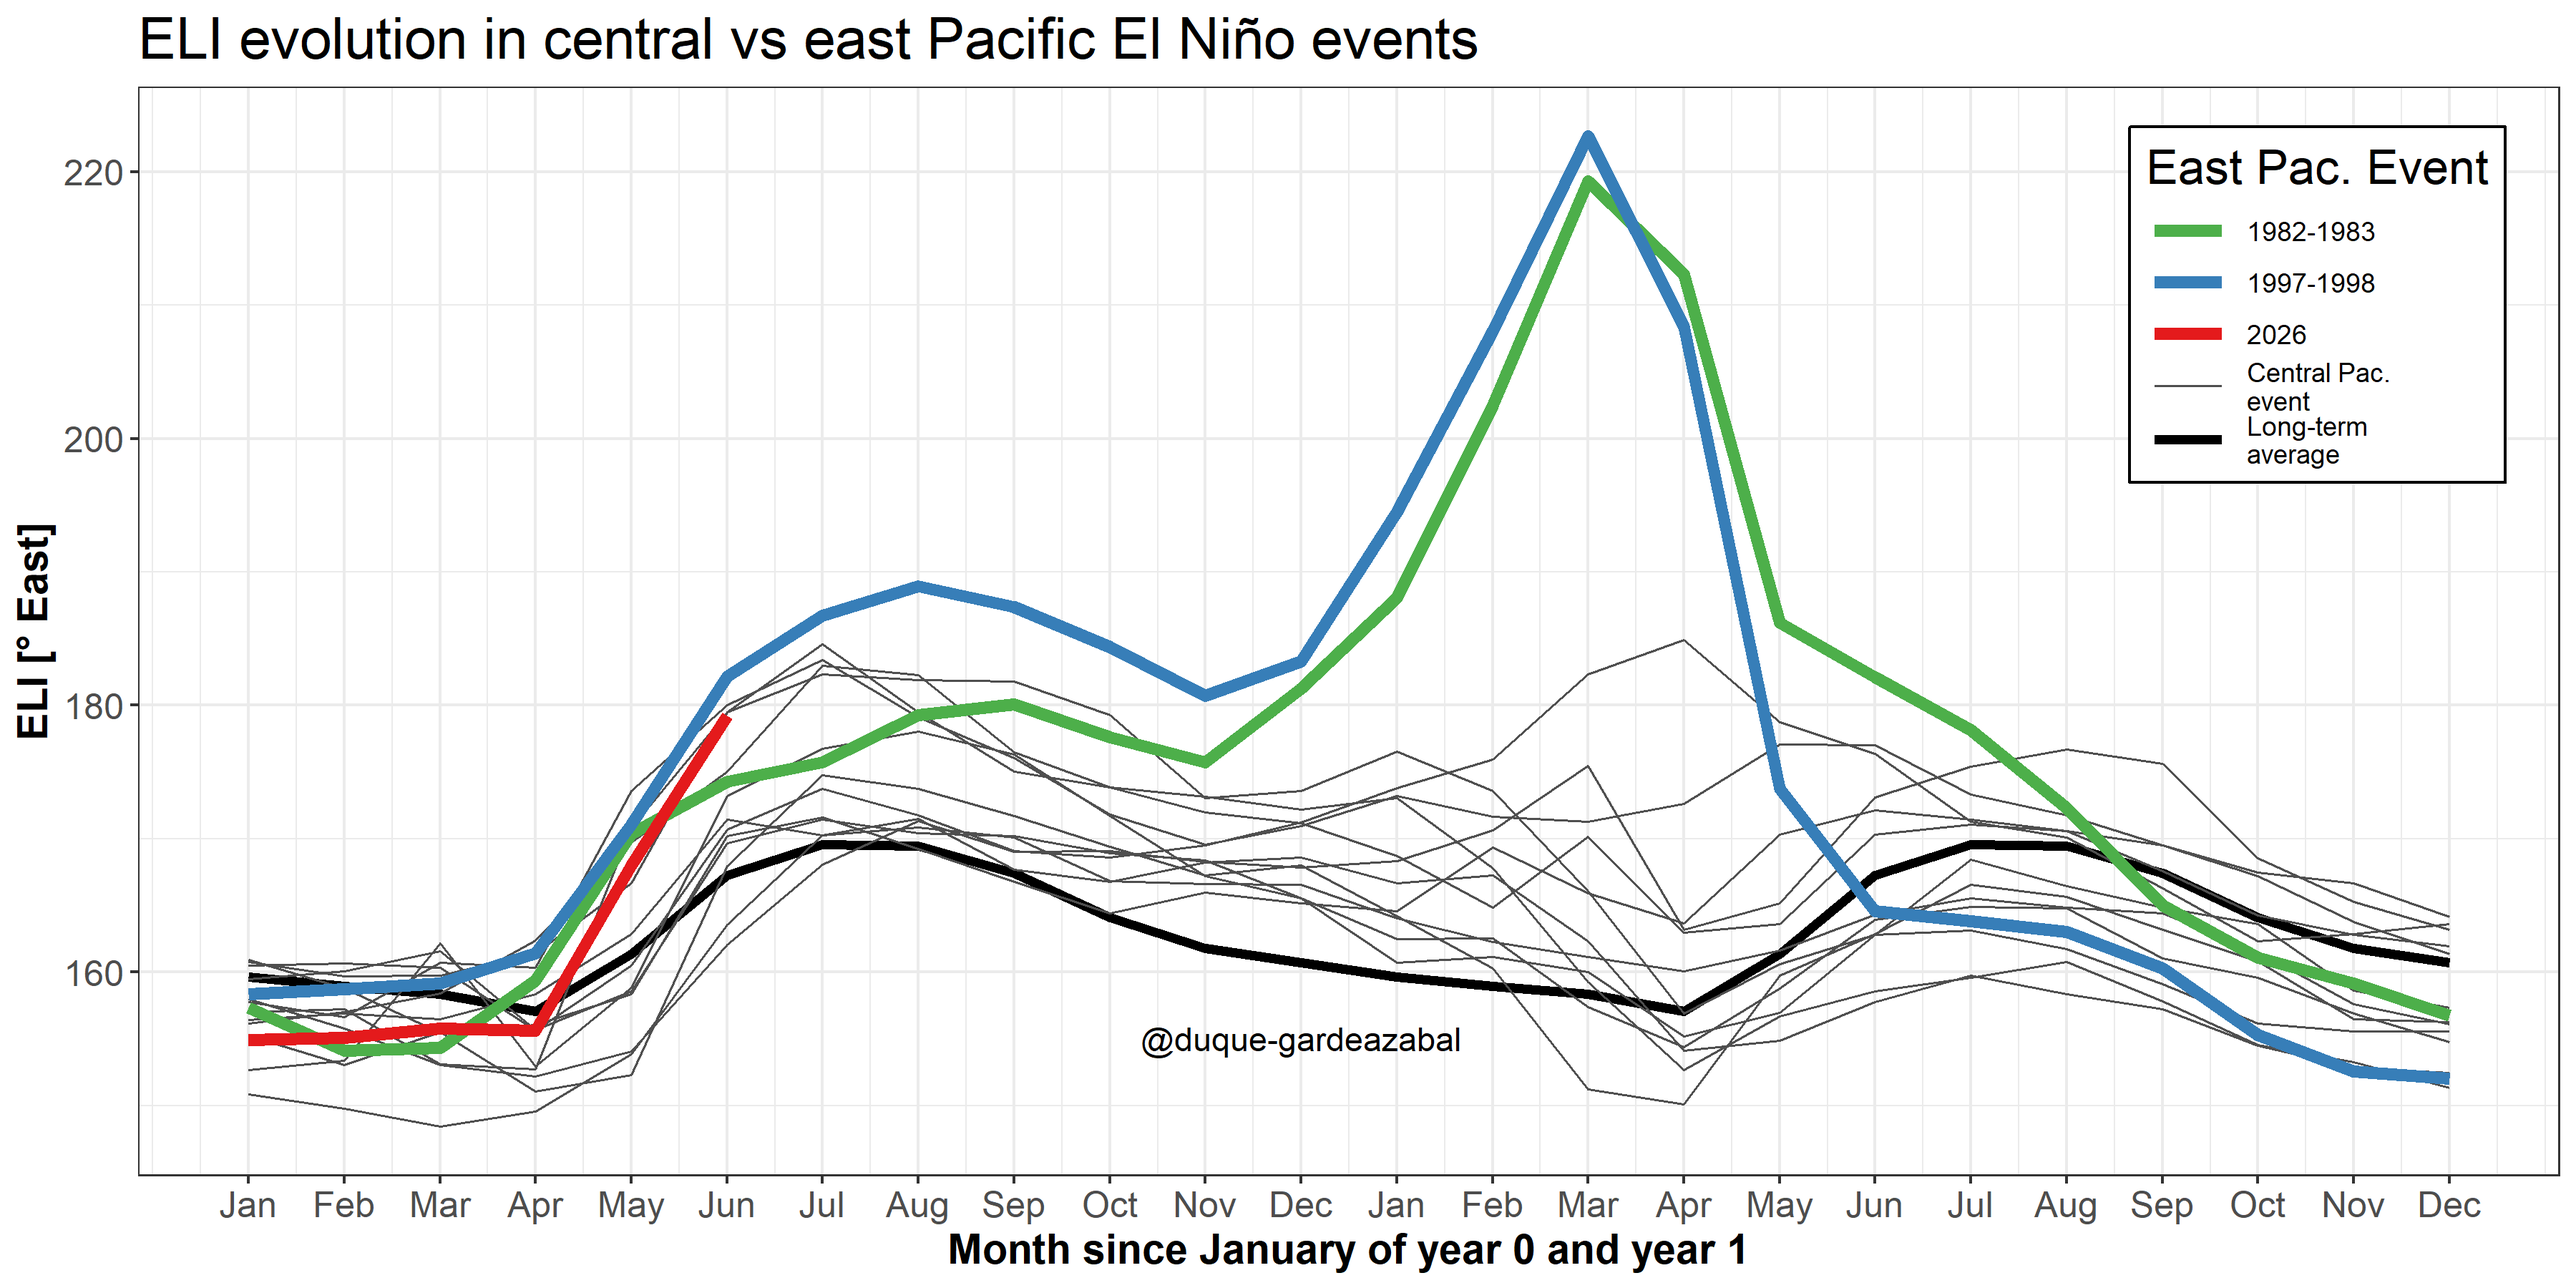
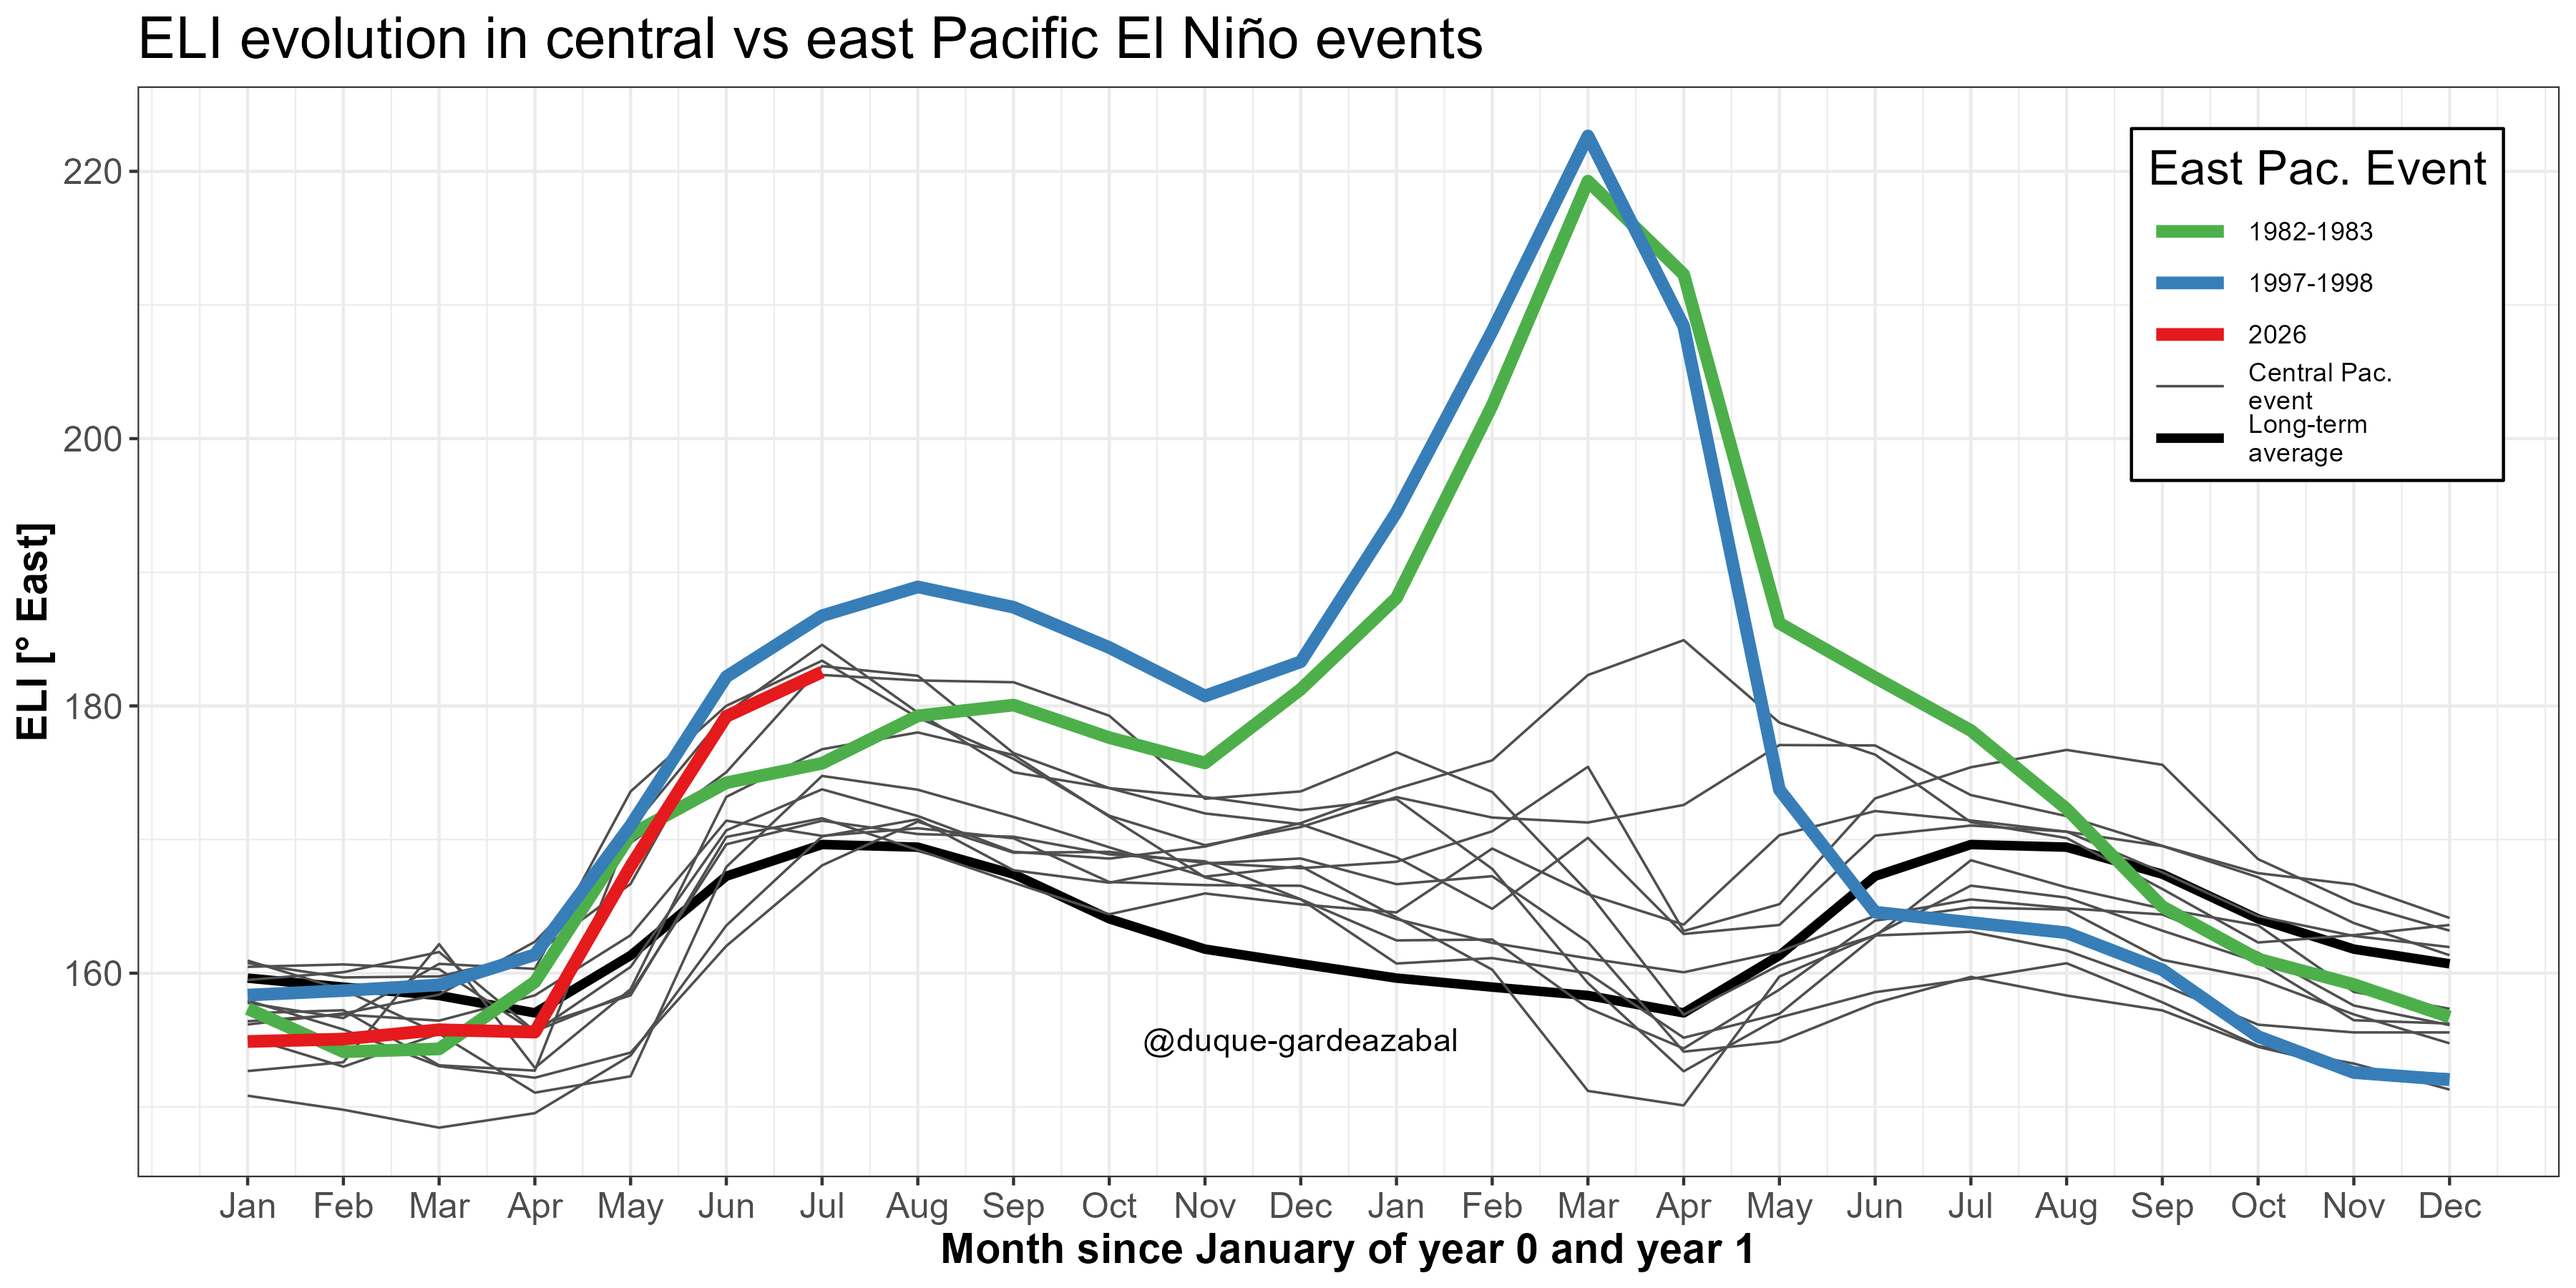
Update some graphs

diff --git a/pages/part01/ENSO_diversity.md b/pages/part01/ENSO_diversity.md
@@ -50,10 +50,10 @@ We know the evolution towards one kind of ENSO event is probably related to the 
 
 ## Global teleconnetions and the impacts change depending on the kind of event
 
-Some research has look at how teleconnections to **North America and Europe** depend on the position of alterated convection in the tropical Pacific (https://doi.org/10.1007/s00382-019-05004-8), few have look to the connection to Europe and its effects on tropical cyclones. The differneces in the influence to South America is being considered but not explicitly with the logitudinal position of the SSTs ({numref}`fig-ENSO-SAme`; http://dx.doi.org/10.1038/s43017-020-0040-3). 
+Some research has look at how teleconnections to **North America and Europe** depend on the position of alterated convection in the tropical Pacific (https://doi.org/10.1007/s00382-019-05004-8), few have look to the connection to Europe and its effects on tropical cyclones. The differneces in the influence to South America was studied but not explicitly with the logitudinal position of the SSTs anomalies and the threshold for convection ({numref}`fig-ENSO-SAme`; http://dx.doi.org/10.1038/s43017-020-0040-3). 
 
-```{figure} ../images/ENSO-diversity_SAmer.png
+```{figure} ../images/Ppt_central_East_Pacific_ENSO.png
 :name: fig-ENSO-SAme
 :alt: 
-Impacts of ENSO diversity in South America's precipitation for (left) East Pacific and (right) Central Pacific ENSO events. Taken from http://dx.doi.org/10.1038/s43017-020-0040-3.
+Impacts of ENSO diversity in Northern South America's precipitation for East Pacific and Central Pacific ENSO events depending on the season.
 ```
